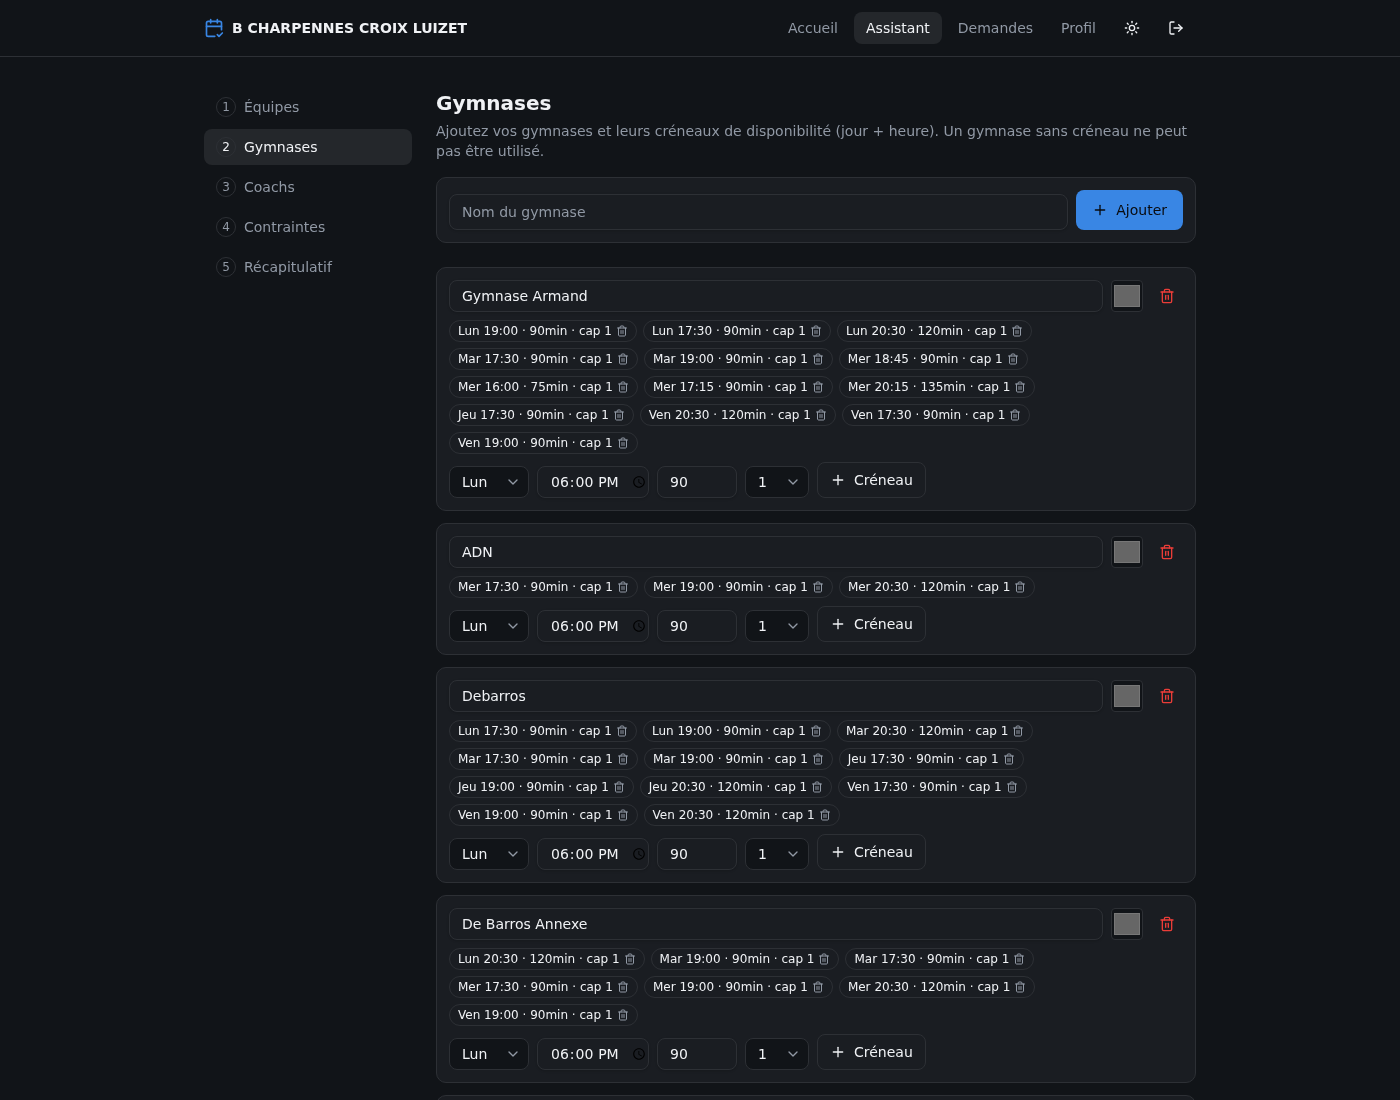
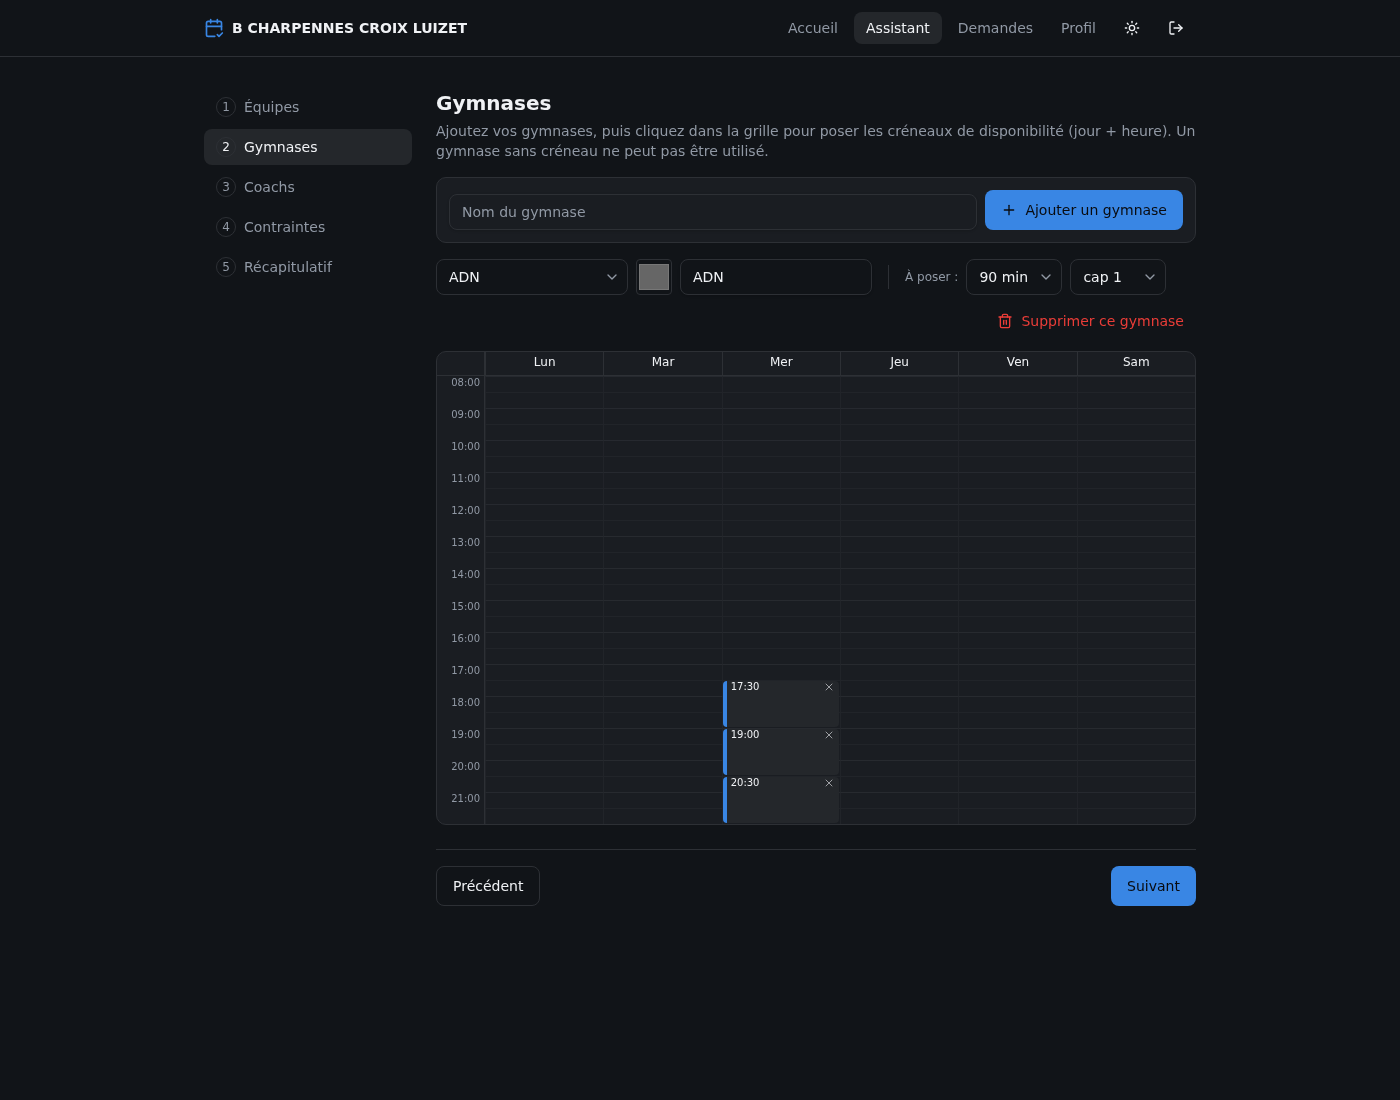
(IA Claude) feat(frontend): tranche 3 - passe UX wizard (retours utilisateur)
Gymnases : la liste de creneaux -> grille hebdo cliquable par gymnase
(un gymnase a la fois, Lun-Sam x heures). Clic sur une case = pose un
creneau (duree + capacite par defaut, ajustables) ; clic sur un creneau
= le retire. Couleur du gymnase. Plus visuel et ludique.

Equipes : en-tetes de colonnes (Nom/Categorie/Genre/Seances/Tier) pour
comprendre chaque champ ; aide sur le role des tiers + du numero global ;
boutons flottants haut/bas de page quand la liste est longue.

(Les "boutons qui ne marchent pas" venaient de la fuite d'isolation deja
corrigee : on editait un autre club -> 403. Sur son propre club, tout
fonctionne.)

tsc + eslint + build + vitest verts. Grille gymnase verifiee visuellement.

Claude-Session: https://claude.ai/code/session_01SmrbAdqyEn5hudPTHkbLyh

diff --git a/frontend/src/features/wizard/steps/VenuesStep.tsx b/frontend/src/features/wizard/steps/VenuesStep.tsx
@@ -4,107 +4,30 @@ import { type FormEvent, useState } from "react";
 import { Button } from "@/shared/components/ui/button";
 import { Input } from "@/shared/components/ui/input";
 import { Select } from "@/shared/components/ui/select";
-import { cn } from "@/shared/lib/utils";
 
-import type { Venue, VenueTrainingSlot } from "../api";
-import { DAYS, dayLabel, hhmm } from "../lib/days";
 import { useCreateSlot, useCreateVenue, useDeleteSlot, useDeleteVenue, useUpdateVenue, useVenueSlots, useWizardVenues } from "../queries";
+import { VenueAvailabilityGrid } from "./VenueAvailabilityGrid";
 
-function AddSlotForm({ venueId }: { venueId: string }) {
-  const create = useCreateSlot();
-  const [day, setDay] = useState(1);
-  const [time, setTime] = useState("18:00");
-  const [duration, setDuration] = useState("90");
-  const [capacity, setCapacity] = useState(1);
-
-  const submit = (event: FormEvent) => {
-    event.preventDefault();
-    create.mutate({ venueId, dayOfWeek: day, startTime: time, durationMinutes: Number(duration), capacity });
-  };
-
-  return (
-    <form onSubmit={submit} className="mt-2 flex flex-wrap items-end gap-2">
-      <Select aria-label="Jour" className="h-8 w-20" value={day} onChange={(e) => setDay(Number(e.target.value))}>
-        {DAYS.map((d) => (
-          <option key={d.n} value={d.n}>
-            {d.label}
-          </option>
-        ))}
-      </Select>
-      <Input aria-label="Heure" type="time" className="h-8 w-28" value={time} onChange={(e) => setTime(e.target.value)} />
-      <Input aria-label="Durée (min)" type="number" min={15} step={15} className="h-8 w-20" value={duration} onChange={(e) => setDuration(e.target.value)} />
-      <Select aria-label="Capacité" className="h-8 w-16" value={capacity} onChange={(e) => setCapacity(Number(e.target.value))}>
-        <option value={1}>1</option>
-        <option value={2}>2</option>
-      </Select>
-      <Button size="sm" type="submit" variant="outline" disabled={create.isPending}>
-        <Plus className="size-4" />
-        Créneau
-      </Button>
-    </form>
-  );
-}
-
-function VenueCard({ venue, slots }: { venue: Venue; slots: VenueTrainingSlot[] }) {
-  const update = useUpdateVenue();
-  const del = useDeleteVenue();
-  const delSlot = useDeleteSlot();
-  const [name, setName] = useState(venue.name);
-
-  const noSlot = 0 === slots.length;
-
-  return (
-    <div className={cn("rounded-lg border bg-card p-3", noSlot ? "border-destructive/50" : "border-border")}>
-      <div className="flex items-center gap-2">
-        <Input
-          aria-label="Nom du gymnase"
-          className="h-8 flex-1 font-medium"
-          value={name}
-          onChange={(e) => setName(e.target.value)}
-          onBlur={() => name.trim() && name !== venue.name && update.mutate({ id: venue.id, body: { name: name.trim(), color: venue.color, canSplit: venue.canSplit } })}
-        />
-        <input
-          aria-label="Couleur"
-          type="color"
-          className="size-8 shrink-0 rounded border border-input bg-background"
-          value={venue.color ?? "#666666"}
-          onChange={(e) => update.mutate({ id: venue.id, body: { name: venue.name, color: e.target.value, canSplit: venue.canSplit } })}
-        />
-        <Button size="icon" variant="ghost" className="size-8 text-destructive" aria-label="Supprimer le gymnase" onClick={() => del.mutate(venue.id)}>
-          <Trash2 className="size-4" />
-        </Button>
-      </div>
-
-      <div className="mt-2">
-        {noSlot ? (
-          <p className="text-xs text-destructive">Aucun créneau — ce gymnase est inutilisable.</p>
-        ) : (
-          <ul className="flex flex-wrap gap-1.5">
-            {slots.map((slot) => (
-              <li key={slot.id} className="flex items-center gap-1 rounded-full border border-border px-2 py-0.5 text-xs">
-                <span>
-                  {dayLabel(slot.dayOfWeek)} {hhmm(slot.startTime)} · {slot.durationMinutes}min · cap {slot.capacity}
-                </span>
-                <button type="button" aria-label="Retirer le créneau" className="text-muted-foreground hover:text-destructive" onClick={() => delSlot.mutate(slot.id)}>
-                  <Trash2 className="size-3" />
-                </button>
-              </li>
-            ))}
-          </ul>
-        )}
-        <AddSlotForm venueId={venue.id} />
-      </div>
-    </div>
-  );
-}
+const DURATIONS = [60, 75, 90, 105, 120];
 
 export function VenuesStep() {
   const { data: venues = [] } = useWizardVenues();
   const { data: slots = [] } = useVenueSlots();
   const create = useCreateVenue();
-  const [name, setName] = useState("");
+  const update = useUpdateVenue();
+  const delVenue = useDeleteVenue();
+  const addSlot = useCreateSlot();
+  const delSlot = useDeleteSlot();
 
-  const add = (event: FormEvent) => {
+  const [name, setName] = useState("");
+  const [selectedId, setSelectedId] = useState("");
+  const [duration, setDuration] = useState(90);
+  const [capacity, setCapacity] = useState(1);
+  const [venueName, setVenueName] = useState("");
+
+  const selected = venues.find((v) => v.id === (selectedId || venues[0]?.id)) ?? null;
+
+  const addVenue = (event: FormEvent) => {
     event.preventDefault();
     if ("" === name.trim()) {
       return;
@@ -113,27 +36,78 @@ export function VenuesStep() {
     setName("");
   };
 
+  const emptyVenues = venues.filter((v) => !slots.some((s) => s.venueId === v.id));
+
   return (
     <div>
       <h2 className="mb-1 text-xl font-semibold">Gymnases</h2>
-      <p className="mb-4 text-sm text-muted-foreground">Ajoutez vos gymnases et leurs créneaux de disponibilité (jour + heure). Un gymnase sans créneau ne peut pas être utilisé.</p>
+      <p className="mb-4 text-sm text-muted-foreground">
+        Ajoutez vos gymnases, puis cliquez dans la grille pour poser les créneaux de disponibilité (jour + heure). Un gymnase sans créneau ne peut pas être utilisé.
+      </p>
 
-      <form onSubmit={add} className="mb-6 flex items-end gap-2 rounded-lg border border-border bg-card p-3">
+      <form onSubmit={addVenue} className="mb-4 flex items-end gap-2 rounded-lg border border-border bg-card p-3">
         <Input aria-label="Nom du gymnase" placeholder="Nom du gymnase" className="h-9 flex-1" value={name} onChange={(e) => setName(e.target.value)} />
         <Button type="submit" disabled={create.isPending}>
           <Plus className="size-4" />
-          Ajouter
+          Ajouter un gymnase
         </Button>
       </form>
 
-      {0 === venues.length ? (
+      {emptyVenues.length > 0 ? <p className="mb-3 text-xs text-destructive">Sans créneau : {emptyVenues.map((v) => v.name).join(", ")}.</p> : null}
+
+      {null === selected ? (
         <p className="text-sm text-muted-foreground">Aucun gymnase pour le moment.</p>
       ) : (
-        <div className="flex flex-col gap-3">
-          {venues.map((venue) => (
-            <VenueCard key={venue.id} venue={venue} slots={slots.filter((s) => s.venueId === venue.id)} />
-          ))}
-        </div>
+        <>
+          <div className="mb-3 flex flex-wrap items-center gap-2">
+            <Select aria-label="Gymnase" className="h-9 w-48" value={selected.id} onChange={(e) => setSelectedId(e.target.value)}>
+              {venues.map((v) => (
+                <option key={v.id} value={v.id}>
+                  {v.name}
+                </option>
+              ))}
+            </Select>
+            <input
+              aria-label="Couleur"
+              type="color"
+              className="size-9 shrink-0 rounded border border-input bg-background"
+              value={selected.color ?? "#666666"}
+              onChange={(e) => update.mutate({ id: selected.id, body: { name: selected.name, color: e.target.value, canSplit: selected.canSplit } })}
+            />
+            <Input
+              aria-label="Renommer le gymnase"
+              className="h-9 w-48"
+              defaultValue={selected.name}
+              key={selected.id}
+              onChange={(e) => setVenueName(e.target.value)}
+              onBlur={() => venueName.trim() && venueName !== selected.name && update.mutate({ id: selected.id, body: { name: venueName.trim(), color: selected.color, canSplit: selected.canSplit } })}
+            />
+            <span className="mx-2 h-6 w-px bg-border" />
+            <span className="text-xs text-muted-foreground">À poser :</span>
+            <Select aria-label="Durée à poser" className="h-9 w-24" value={duration} onChange={(e) => setDuration(Number(e.target.value))}>
+              {DURATIONS.map((d) => (
+                <option key={d} value={d}>
+                  {d} min
+                </option>
+              ))}
+            </Select>
+            <Select aria-label="Capacité à poser" className="h-9 w-24" value={capacity} onChange={(e) => setCapacity(Number(e.target.value))}>
+              <option value={1}>cap 1</option>
+              <option value={2}>cap 2</option>
+            </Select>
+            <Button size="sm" variant="ghost" className="ml-auto text-destructive" onClick={() => delVenue.mutate(selected.id)}>
+              <Trash2 className="size-4" />
+              Supprimer ce gymnase
+            </Button>
+          </div>
+
+          <VenueAvailabilityGrid
+            venue={selected}
+            slots={slots.filter((s) => s.venueId === selected.id)}
+            onAdd={(dayOfWeek, startTime) => addSlot.mutate({ venueId: selected.id, dayOfWeek, startTime, durationMinutes: duration, capacity })}
+            onRemove={(id) => delSlot.mutate(id)}
+          />
+        </>
       )}
     </div>
   );

diff --git a/frontend/src/features/wizard/steps/VenueAvailabilityGrid.tsx b/frontend/src/features/wizard/steps/VenueAvailabilityGrid.tsx
@@ -1,0 +1,92 @@
+import { X } from "lucide-react";
+
+import { cn } from "@/shared/lib/utils";
+
+import type { Venue, VenueTrainingSlot } from "../api";
+import { DAYS, hhmm } from "../lib/days";
+
+const START_MIN = 8 * 60; // 08:00
+const END_MIN = 22 * 60; // 22:00
+const STEP = 30;
+const ROW_H = 16; // px per 30 min
+const WEEK = DAYS.filter((d) => d.n <= 6); // Lun-Sam
+
+const rows = Array.from({ length: (END_MIN - START_MIN) / STEP }, (_, i) => START_MIN + i * STEP);
+const fmt = (m: number) => `${String(Math.floor(m / 60)).padStart(2, "0")}:${String(m % 60).padStart(2, "0")}`;
+const startMinutes = (t: string) => {
+  const [h, m] = hhmm(t).split(":");
+  return Number(h) * 60 + Number(m);
+};
+
+interface Props {
+  venue: Venue;
+  slots: VenueTrainingSlot[];
+  onAdd: (dayOfWeek: number, startTime: string) => void;
+  onRemove: (id: string) => void;
+}
+
+export function VenueAvailabilityGrid({ venue, slots, onAdd, onRemove }: Props) {
+  const color = venue.color ?? "var(--accent)";
+  const gridTemplateColumns = `3rem repeat(${WEEK.length}, minmax(3rem, 1fr))`;
+  const gridTemplateRows = `1.5rem repeat(${rows.length}, ${ROW_H}px)`;
+
+  return (
+    <div className="overflow-x-auto rounded-lg border border-border bg-card">
+      <div className="grid text-xs" style={{ gridTemplateColumns, gridTemplateRows }}>
+        <div className="border-b border-r border-border" style={{ gridColumn: 1, gridRow: 1 }} />
+        {WEEK.map((d, i) => (
+          <div key={d.n} className="border-b border-l border-border py-0.5 text-center font-medium" style={{ gridColumn: 2 + i, gridRow: 1 }}>
+            {d.label}
+          </div>
+        ))}
+
+        {/* Time gutter — label on the hour */}
+        {rows.map((m, i) => (
+          <div key={`t${m}`} className="border-r border-border pr-1 text-right text-[10px] text-muted-foreground" style={{ gridColumn: 1, gridRow: 2 + i }}>
+            {0 === m % 60 ? fmt(m) : ""}
+          </div>
+        ))}
+
+        {/* Empty clickable cells */}
+        {WEEK.map((d, di) =>
+          rows.map((m, ri) => (
+            <button
+              key={`c${d.n}-${m}`}
+              type="button"
+              aria-label={`${d.label} ${fmt(m)}`}
+              onClick={() => onAdd(d.n, fmt(m))}
+              className={cn("border-l border-t border-border/40 hover:bg-muted", 0 === m % 60 ? "border-t-border/70" : "")}
+              style={{ gridColumn: 2 + di, gridRow: 2 + ri }}
+            />
+          )),
+        )}
+
+        {/* Slots */}
+        {slots.map((slot) => {
+          const di = WEEK.findIndex((d) => d.n === slot.dayOfWeek);
+          if (di < 0) {
+            return null;
+          }
+          const startRow = 2 + Math.round((startMinutes(slot.startTime) - START_MIN) / STEP);
+          const span = Math.max(1, Math.round(slot.durationMinutes / STEP));
+          return (
+            <button
+              key={slot.id}
+              type="button"
+              onClick={() => onRemove(slot.id)}
+              title={`${hhmm(slot.startTime)} · ${slot.durationMinutes}min · cap ${slot.capacity} — cliquer pour retirer`}
+              className="z-10 m-px flex items-start justify-between overflow-hidden rounded border-l-4 px-1 text-left text-[10px] leading-tight"
+              style={{ gridColumn: 2 + di, gridRow: `${startRow} / span ${span}`, borderLeftColor: color, backgroundColor: `${typeof color === "string" && color.startsWith("#") ? `${color}33` : "var(--muted)"}` }}
+            >
+              <span>
+                {hhmm(slot.startTime)}
+                {slot.capacity > 1 ? ` ·${slot.capacity}` : ""}
+              </span>
+              <X className="size-3 shrink-0 opacity-60" />
+            </button>
+          );
+        })}
+      </div>
+    </div>
+  );
+}

diff --git a/frontend/src/features/wizard/steps/TeamsStep.tsx b/frontend/src/features/wizard/steps/TeamsStep.tsx
@@ -1,4 +1,4 @@
-import { ChevronDown, ChevronUp, Plus, Trash2 } from "lucide-react";
+import { ChevronDown, ChevronsDown, ChevronsUp, ChevronUp, Plus, Trash2 } from "lucide-react";
 import { type FormEvent, useState } from "react";
 
 import { Button } from "@/shared/components/ui/button";
@@ -159,8 +159,12 @@ export function TeamsStep() {
   return (
     <div>
       <h2 className="mb-1 text-xl font-semibold">Équipes</h2>
+      <p className="mb-1 text-sm text-muted-foreground">
+        Une équipe par catégorie suffit souvent (ex. 2 seniors M, 1 senior F, puis U18 → U11).
+      </p>
       <p className="mb-4 text-sm text-muted-foreground">
-        Ajoutez vos équipes, classez-les par tier (S &gt; A &gt; B &gt; C &gt; D) et ordonnez-les dans chaque tier — les plus importantes remontent en tête.
+        Le <strong>tier</strong> classe l'importance : <strong>S</strong> (élite) &gt; A &gt; B &gt; C &gt; <strong>D</strong> (loisir). Dans un tier, montez/descendez les équipes ; le
+        <strong> numéro</strong> à gauche est leur rang global (1 = plus importante) — c'est l'ordre où on les traitera.
       </p>
 
       <form onSubmit={addTeam} className="mb-6 flex flex-wrap items-end gap-2 rounded-lg border border-border bg-card p-3">
@@ -197,6 +201,15 @@ export function TeamsStep() {
         <p className="text-sm text-muted-foreground">Aucune équipe pour le moment.</p>
       ) : (
         <div className="flex flex-col gap-4">
+          <div className="flex items-center gap-2 px-2 text-xs font-medium text-muted-foreground">
+            <span className="w-6 text-center">#</span>
+            <span className="flex-1">Nom de l'équipe</span>
+            <span className="w-32">Catégorie</span>
+            <span className="w-20">Genre</span>
+            <span className="w-16">Séances</span>
+            <span className="w-16">Tier</span>
+            <span className="w-[104px] text-right">Ordre · Suppr.</span>
+          </div>
           {tierGroups.map((tier) => {
             const group = teamsOfTier(teams, tier.id);
             return (
@@ -225,6 +238,17 @@ export function TeamsStep() {
           })}
         </div>
       )}
+
+      {teams.length > 8 ? (
+        <div className="fixed bottom-6 right-6 z-40 flex flex-col gap-1">
+          <Button size="icon" variant="outline" aria-label="Haut de page" onClick={() => window.scrollTo({ top: 0, behavior: "smooth" })}>
+            <ChevronsUp className="size-4" />
+          </Button>
+          <Button size="icon" variant="outline" aria-label="Bas de page" onClick={() => window.scrollTo({ top: document.body.scrollHeight, behavior: "smooth" })}>
+            <ChevronsDown className="size-4" />
+          </Button>
+        </div>
+      ) : null}
     </div>
   );
 }